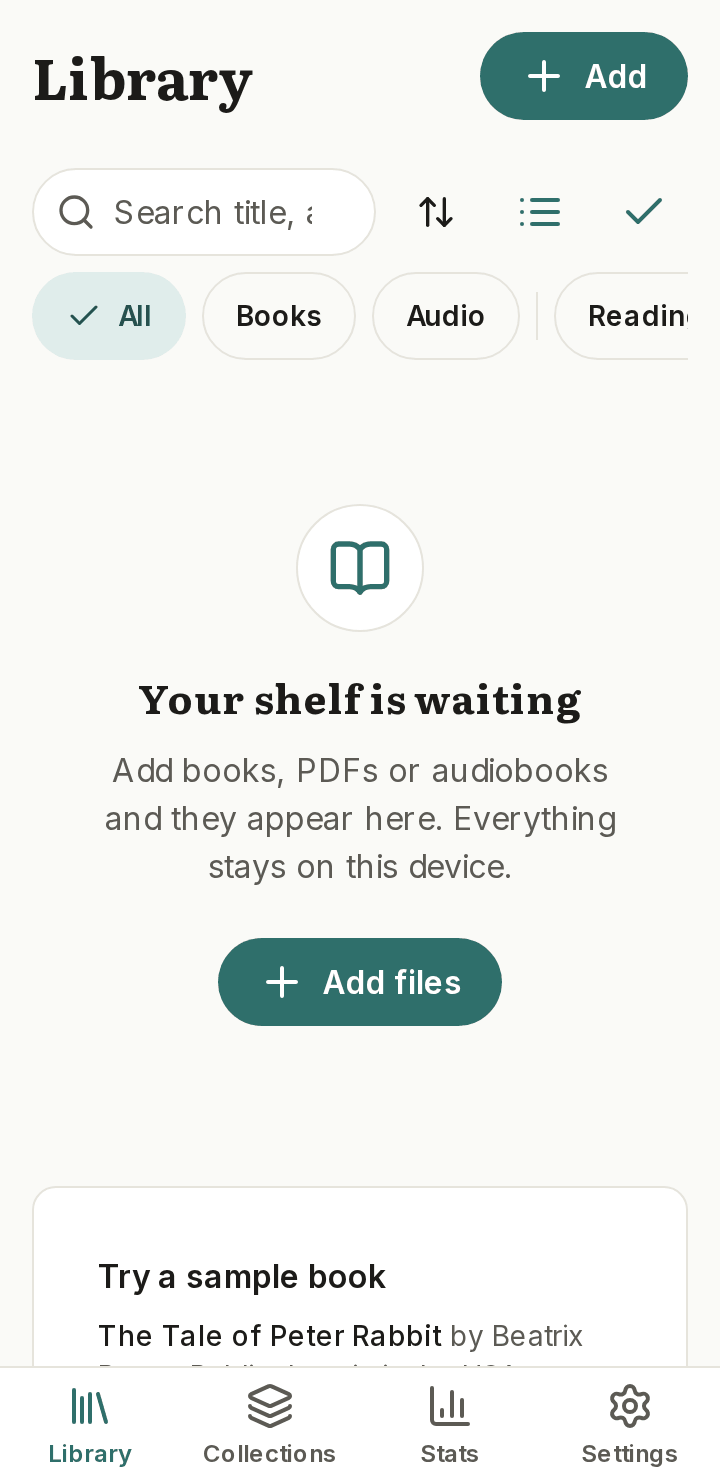
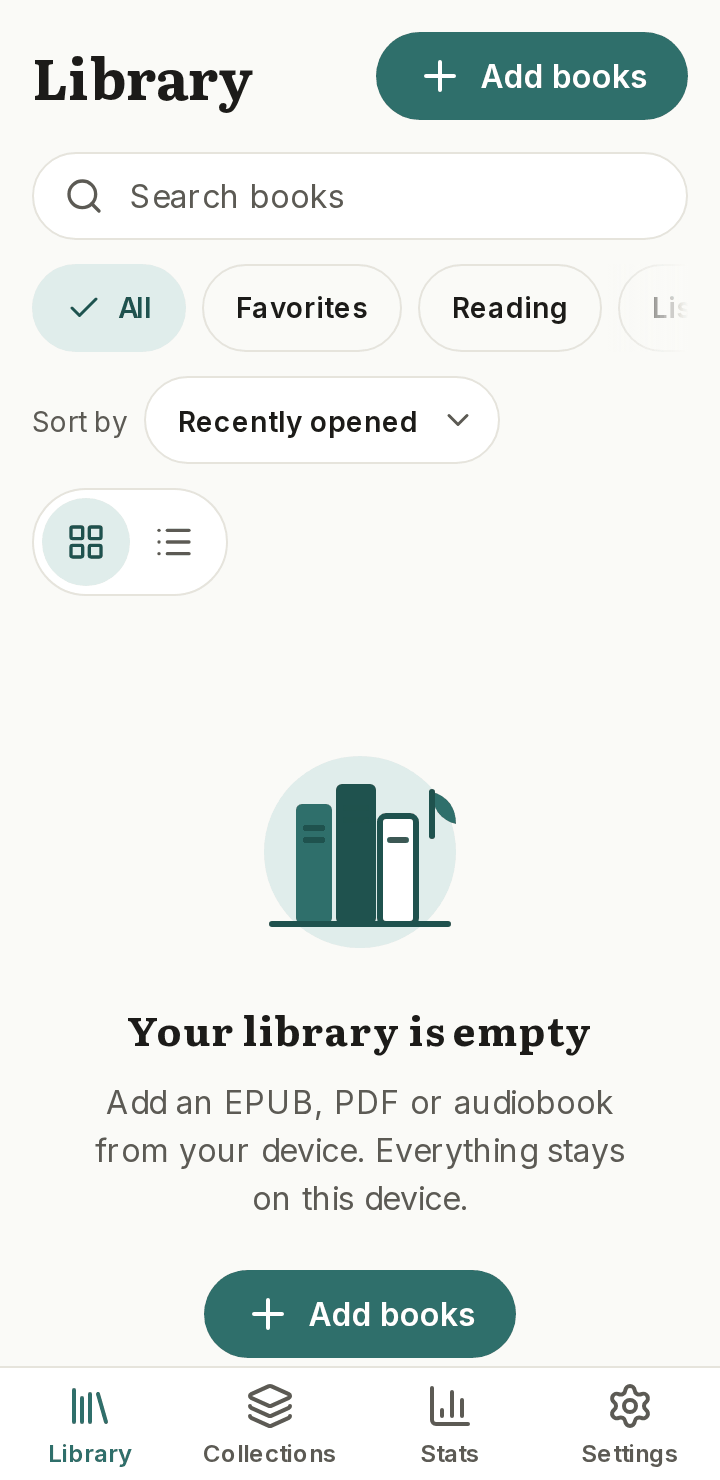
docs: refresh the 360 px screenshots after merging feature/library-2

diff --git a/docs/screens/integrate-2/README.md b/docs/screens/integrate-2/README.md
@@ -1,6 +1,6 @@
 # Wired screens at 360 px, integrate-2
 
-Production build of `feature/integrate-2` (the design system's Onboarding and Settings screens, the
+Production build of `feature/integrate-2` after merging `feature/library-2` 4349453 (the design system's Onboarding and Settings screens, the
 Library's Collections screen and Backup/Storage panels), at a 360 × 740 phone viewport, 2× pixel ratio,
 taken with touch input. The Library holds the real sample book (Peter Rabbit) from the real provider.
 Docs only: nothing in the app reads these files. PNGs are palette-optimised. The same run checked, on
